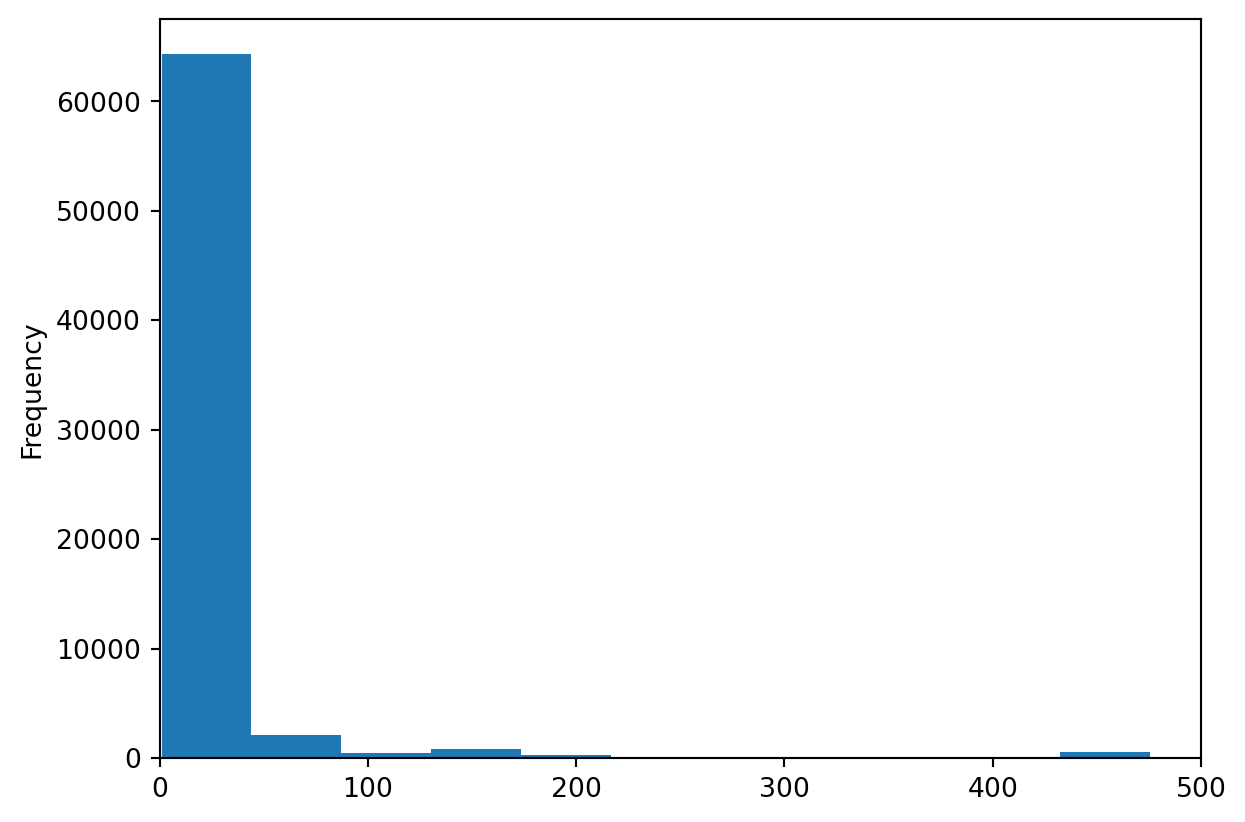
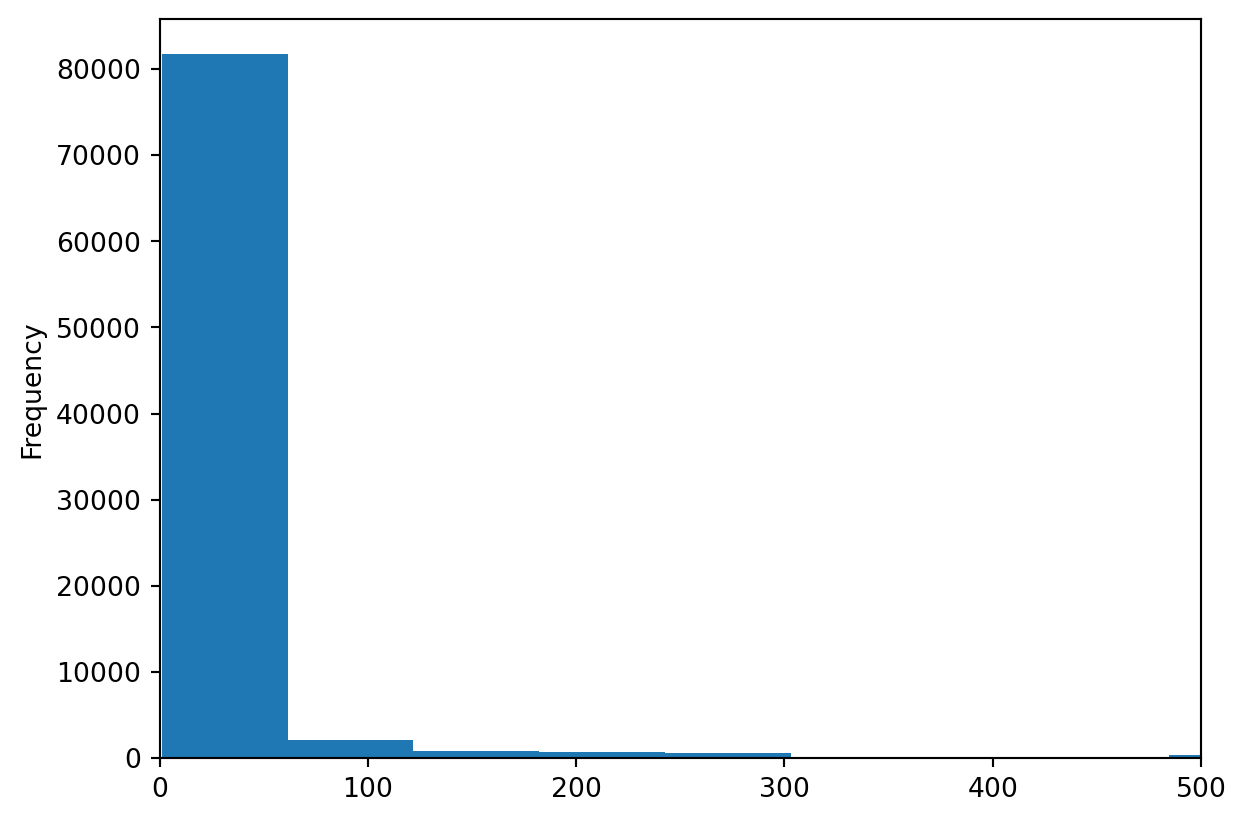
update

diff --git a/Group_Work_DeskB.html b/Group_Work_DeskB.html
@@ -102,9 +102,9 @@ div.csl-indent {
   <li><a href="#priorities-for-feedback" id="toc-priorities-for-feedback" class="nav-link" data-scroll-target="#priorities-for-feedback">Priorities for Feedback</a></li>
   <li><a href="#response-to-questions" id="toc-response-to-questions" class="nav-link" data-scroll-target="#response-to-questions">Response to Questions</a>
   <ul class="collapse">
-  <li><a href="#who-collected-the-data" id="toc-who-collected-the-data" class="nav-link" data-scroll-target="#who-collected-the-data">1. Who collected the data?</a></li>
-  <li><a href="#why-did-they-collect-it" id="toc-why-did-they-collect-it" class="nav-link" data-scroll-target="#why-did-they-collect-it">2. Why did they collect it?</a></li>
-  <li><a href="#how-was-the-data-collected" id="toc-how-was-the-data-collected" class="nav-link" data-scroll-target="#how-was-the-data-collected">3. How was the data collected?</a></li>
+  <li><a href="#who-collected-the-data-2-points-answer-due-week-7" id="toc-who-collected-the-data-2-points-answer-due-week-7" class="nav-link" data-scroll-target="#who-collected-the-data-2-points-answer-due-week-7">1. Who collected the data? ( 2 points; Answer due Week 7 )</a></li>
+  <li><a href="#why-did-they-collect-it-4-points-answer-due-week-7" id="toc-why-did-they-collect-it-4-points-answer-due-week-7" class="nav-link" data-scroll-target="#why-did-they-collect-it-4-points-answer-due-week-7">2. Why did they collect it? ( 4 points; Answer due Week 7 )</a></li>
+  <li><a href="#how-was-the-data-collected-5-points-answer-due-week-8" id="toc-how-was-the-data-collected-5-points-answer-due-week-8" class="nav-link" data-scroll-target="#how-was-the-data-collected-5-points-answer-due-week-8">3. How was the data collected? ( 5 points; Answer due Week 8 )</a></li>
   <li><a href="#how-does-the-method-of-collection-impact-the-completeness-andor-accuracy-of-its-representation-of-the-process-it-seeks-to-study-and-what-wider-issues-does-this-raise" id="toc-how-does-the-method-of-collection-impact-the-completeness-andor-accuracy-of-its-representation-of-the-process-it-seeks-to-study-and-what-wider-issues-does-this-raise" class="nav-link" data-scroll-target="#how-does-the-method-of-collection-impact-the-completeness-andor-accuracy-of-its-representation-of-the-process-it-seeks-to-study-and-what-wider-issues-does-this-raise">4. How does the method of collection impact the completeness and/or accuracy of its representation of the process it seeks to study, and what wider issues does this raise?</a></li>
   <li><a href="#what-ethical-considerations-does-the-use-of-this-data-raise" id="toc-what-ethical-considerations-does-the-use-of-this-data-raise" class="nav-link" data-scroll-target="#what-ethical-considerations-does-the-use-of-this-data-raise">5. What ethical considerations does the use of this data raise?</a></li>
   <li><a href="#with-reference-to-the-data-i.e.-using-numbers-figures-maps-and-descriptive-statistics-what-does-an-analysis-of-hosts-and-listing-types-suggest-about-the-nature-of-airbnb-lets-in-london" id="toc-with-reference-to-the-data-i.e.-using-numbers-figures-maps-and-descriptive-statistics-what-does-an-analysis-of-hosts-and-listing-types-suggest-about-the-nature-of-airbnb-lets-in-london" class="nav-link" data-scroll-target="#with-reference-to-the-data-i.e.-using-numbers-figures-maps-and-descriptive-statistics-what-does-an-analysis-of-hosts-and-listing-types-suggest-about-the-nature-of-airbnb-lets-in-london">6. With reference to the data (<em>i.e.</em> using numbers, figures, maps, and descriptive statistics), what does an analysis of Hosts and Listing types suggest about the nature of Airbnb lets in London?</a></li>
@@ -182,26 +182,22 @@ div.csl-indent {
 </section>
 <section id="response-to-questions" class="level1">
 <h1>Response to Questions</h1>
-<section id="who-collected-the-data" class="level2">
-<h2 class="anchored" data-anchor-id="who-collected-the-data">1. Who collected the data?</h2>
-<div class="duedate">
-<p>1.<a href="http://data.insideairbnb.com/united-kingdom/england/london/2023-09-06/data/listings.csv.gz">*listings.csv</a> : This dataset was created by automatically scraping public information from Airbnb’s Website. Murray Cox was one of the main founder and technicians of this mission driven project that aims to provide data and advocacy about Airbnb’s impact on residential communities. <a href="(http://insideairbnb.com/about)">[1]</a></p>
+<section id="who-collected-the-data-2-points-answer-due-week-7" class="level2">
+<h2 class="anchored" data-anchor-id="who-collected-the-data-2-points-answer-due-week-7">1. Who collected the data? ( 2 points; Answer due Week 7 )</h2>
+<p>::: 1.<a href="http://data.insideairbnb.com/united-kingdom/england/london/2023-09-06/data/listings.csv.gz">*listings.csv</a> : This dataset was created by automatically scraping public information from Airbnb’s Website. Murray Cox was one of the main founder and technicians of this mission driven project that aims to provide data and advocacy about Airbnb’s impact on residential communities. <a href="(http://insideairbnb.com/about)">[1]</a></p>
 <p>2.<a href="https://data.london.gov.uk/download/london_boroughs/9502cdec-5df0-46e3-8aa1-2b5c5233a31f/London_Boroughs.gpkg">*London_Boroughs.gpkg</a> and <a href="https://data.london.gov.uk/download/statistical-gis-boundary-files-london/08d31995-dd27-423c-a987-57fe8e952990/London-wards-2018.zip">London-wards-2018</a> : This dataset is an extract from <a href="https://www.ordnancesurvey.co.uk/">Ordnance Survey</a> Boundary-Line product which is a specialist 1:10 000 scale boundaries dataset.</p>
-<p>( 2 points; Answer due Week 7 )</p>
-</div>
+<p>:::</p>
 <p>An inline citation: As discussed on <span class="citation" data-cites="insideairbnb"><span>“Inside airbnb”</span> (<a href="#ref-insideairbnb" role="doc-biblioref">n.d.</a>)</span>, there are many…</p>
 <p>A parenthetical citation: There are many ways to research Airbnb <span class="citation" data-cites="insideairbnb">(see, for example, <a href="#ref-insideairbnb" role="doc-biblioref"><span>“Inside airbnb,”</span> n.d.</a>)</span>…</p>
 </section>
-<section id="why-did-they-collect-it" class="level2">
-<h2 class="anchored" data-anchor-id="why-did-they-collect-it">2. Why did they collect it?</h2>
-<div class="duedate">
-<p>( 4 points; Answer due Week 7 )</p>
+<section id="why-did-they-collect-it-4-points-answer-due-week-7" class="level2">
+<h2 class="anchored" data-anchor-id="why-did-they-collect-it-4-points-answer-due-week-7">2. Why did they collect it? ( 4 points; Answer due Week 7 )</h2>
+<p>:::</p>
 <p>1.<a href="http://data.insideairbnb.com/united-kingdom/england/london/2023-09-06/data/listings.csv.gz">*listings.csv</a> : Inside Airbnb is a mission driven project that provides data and advocacy about Airbnb’s impact on residential communities. We work towards a vision where communities are empowered with data and information to understand, decide and control the role of renting residential homes to tourists.</p>
-<p>2.<a href="https://data.london.gov.uk/download/london_boroughs/9502cdec-5df0-46e3-8aa1-2b5c5233a31f/London_Boroughs.gpkg">*London_Boroughs.gpkg</a> : With a long history and evolving from . The Ordnance Survey aims to help governments make smarter decisions that ensure our safety and security, they also show businesses how to gain a location data edge and we help everyone experience the benefits of the world outside.</p>
-</div>
+<p>2.<a href="https://data.london.gov.uk/download/london_boroughs/9502cdec-5df0-46e3-8aa1-2b5c5233a31f/London_Boroughs.gpkg">*London_Boroughs.gpkg</a> : With a long history and evolving from . The Ordnance Survey aims to help governments make smarter decisions that ensure our safety and security, they also show businesses how to gain a location data edge and we help everyone experience the benefits of the world outside. Under the <a href="https://www.ordnancesurvey.co.uk/customers/public-sector/public-sector-geospatial-agreement">Public Sector Geospatial Agreement</a> (PSGA), Ordnance Survey (OS) provides Great Britain’ national mapping services. OS creates, maintains and provides access to consistent, definitive and authoritative location data of Great Britain, aiming to help organisations to maximise the use, value and benefit of the data for the national interest and the public good. :::</p>
 <div class="cell" data-execution_count="3">
 <div class="cell-output cell-output-stdout">
-<pre><code>Data frame is 69,351 x 75</code></pre>
+<pre><code>Data frame is 87,946 x 75</code></pre>
 </div>
 </div>
 <div class="cell" data-execution_count="4">
@@ -210,17 +206,45 @@ div.csl-indent {
 </div>
 </div>
 </section>
-<section id="how-was-the-data-collected" class="level2">
-<h2 class="anchored" data-anchor-id="how-was-the-data-collected">3. How was the data collected?</h2>
-<div class="duedate">
-<p>1.<a href="http://data.insideairbnb.com/united-kingdom/england/london/2023-09-06/data/listings.csv.gz">*listings.csv</a> : Inside Airbnb collects its data primarily by scraping information from the Airbnb website. This process involves the following steps:</p>
-<p>i<em>.Web Scraping</em>: Inside Airbnb uses automated scripts to systematically browse and extract data from Airbnb’s listings. These scripts navigate the website just like a human user would, but they do it much faster and on a larger scale.</p>
-<p><em>ii.Data Extraction</em>: Information about each listing, such as location, price, availability, number of bedrooms, reviews, and host details, is extracted and compiled.</p>
-<p><em>iii.Data Aggregation</em>: The collected data is then aggregated into a database. This database is organized to make it easier to analyze trends, patterns, and insights related to Airbnb’s offerings in various cities and regions.</p>
-<p><em>iv.Regular Updates</em>: The scraping process is repeated periodically to keep the database current, capturing new listings and updates to existing ones.</p>
-<p><em>v.Public Accessibility</em>: The aggregated data is often made available to the public through the Inside Airbnb website, enabling researchers, policymakers, and the general public to analyze Airbnb’s impact on housing markets and communities. It’s important to note that web scraping practices, like those used by Inside Airbnb, may face legal and ethical considerations depending on the website’s terms of service and regional laws regarding data privacy and usage.</p>
-<p>2.<a href="https://data.london.gov.uk/download/london_boroughs/9502cdec-5df0-46e3-8aa1-2b5c5233a31f/London_Boroughs.gpkg">*London_Boroughs.gpkg</a> : .</p>
-<p>( 5 points; Answer due Week 8 )</p>
+<section id="how-was-the-data-collected-5-points-answer-due-week-8" class="level2">
+<h2 class="anchored" data-anchor-id="how-was-the-data-collected-5-points-answer-due-week-8">3. How was the data collected? ( 5 points; Answer due Week 8 )</h2>
+<p>::: 1.<a href="http://data.insideairbnb.com/united-kingdom/england/london/2023-09-06/data/listings.csv.gz">*listings.csv</a> : Inside Airbnb collects its data primarily by scraping information from the Airbnb website. This process involves the following steps:</p>
+<p><strong>i.Web Scraping</strong>: Inside Airbnb uses automated scripts to systematically browse and extract data from Airbnb’s listings. These scripts navigate the website just like a human user would, but they do it much faster and on a larger scale.</p>
+<p><strong>ii.Data Extraction</strong>: Information about each listing, such as location, price, availability, number of bedrooms, reviews, and host details, is extracted and compiled.</p>
+<p><strong>iii.Data Aggregation</strong>: The collected data is then aggregated into a database. This database is organized to make it easier to analyze trends, patterns, and insights related to Airbnb’s offerings in various cities and regions.</p>
+<p><strong>iv.Regular Updates</strong>: The scraping process is repeated periodically to keep the database current, capturing new listings and updates to existing ones.</p>
+<p><strong>v.Public Accessibility</strong>: The aggregated data is often made available to the public through the Inside Airbnb website, enabling researchers, policymakers, and the general public to analyze Airbnb’s impact on housing markets and communities. It’s important to note that web scraping practices, like those used by Inside Airbnb, may face legal and ethical considerations depending on the website’s terms of service and regional laws regarding data privacy and usage.</p>
+<p>2.<a href="https://data.london.gov.uk/download/london_boroughs/9502cdec-5df0-46e3-8aa1-2b5c5233a31f/London_Boroughs.gpkg">*London_Boroughs.gpkg</a> : “Boundary-Line for England and Wales was initially digitised from Ordnance Survey’s boundary record sheets at 1:10 000 scale (or, in some cases, at larger scales). The Government Statistical Service (GSS) codes are supplied by the Office for National Statistics and General Register Office for Scotland(GROS). GIS software provides the functionality to store, manage and manipulate this digital map data. The properties of the data make it suitable as a key base for users wishing to develop applications. BoundaryLine is also suitable for use within other digital mapping systems. It’s coordinated on the National Grid which allows for the easy superimposition of other data. :::</p>
+<div class="cell" data-execution_count="5">
+<div class="cell-output cell-output-stdout">
+<pre><code>Index(['id', 'listing_url', 'scrape_id', 'last_scraped', 'source', 'name',
+       'description', 'neighborhood_overview', 'picture_url', 'host_id',
+       'host_url', 'host_name', 'host_since', 'host_location', 'host_about',
+       'host_response_time', 'host_response_rate', 'host_acceptance_rate',
+       'host_is_superhost', 'host_thumbnail_url', 'host_picture_url',
+       'host_neighbourhood', 'host_listings_count',
+       'host_total_listings_count', 'host_verifications',
+       'host_has_profile_pic', 'host_identity_verified', 'neighbourhood',
+       'neighbourhood_cleansed', 'neighbourhood_group_cleansed', 'latitude',
+       'longitude', 'property_type', 'room_type', 'accommodates', 'bathrooms',
+       'bathrooms_text', 'bedrooms', 'beds', 'amenities', 'price',
+       'minimum_nights', 'maximum_nights', 'minimum_minimum_nights',
+       'maximum_minimum_nights', 'minimum_maximum_nights',
+       'maximum_maximum_nights', 'minimum_nights_avg_ntm',
+       'maximum_nights_avg_ntm', 'calendar_updated', 'has_availability',
+       'availability_30', 'availability_60', 'availability_90',
+       'availability_365', 'calendar_last_scraped', 'number_of_reviews',
+       'number_of_reviews_ltm', 'number_of_reviews_l30d', 'first_review',
+       'last_review', 'review_scores_rating', 'review_scores_accuracy',
+       'review_scores_cleanliness', 'review_scores_checkin',
+       'review_scores_communication', 'review_scores_location',
+       'review_scores_value', 'license', 'instant_bookable',
+       'calculated_host_listings_count',
+       'calculated_host_listings_count_entire_homes',
+       'calculated_host_listings_count_private_rooms',
+       'calculated_host_listings_count_shared_rooms', 'reviews_per_month'],
+      dtype='object')</code></pre>
+</div>
 </div>
 </section>
 <section id="how-does-the-method-of-collection-impact-the-completeness-andor-accuracy-of-its-representation-of-the-process-it-seeks-to-study-and-what-wider-issues-does-this-raise" class="level2">
@@ -238,7 +262,10 @@ div.csl-indent {
 <section id="with-reference-to-the-data-i.e.-using-numbers-figures-maps-and-descriptive-statistics-what-does-an-analysis-of-hosts-and-listing-types-suggest-about-the-nature-of-airbnb-lets-in-london" class="level2">
 <h2 class="anchored" data-anchor-id="with-reference-to-the-data-i.e.-using-numbers-figures-maps-and-descriptive-statistics-what-does-an-analysis-of-hosts-and-listing-types-suggest-about-the-nature-of-airbnb-lets-in-london">6. With reference to the data (<em>i.e.</em> using numbers, figures, maps, and descriptive statistics), what does an analysis of Hosts and Listing types suggest about the nature of Airbnb lets in London?</h2>
 <div class="duedate">
-<div class="sourceCode" id="cb2"><pre class="sourceCode python code-with-copy"><code class="sourceCode python"><span id="cb2-1"><a href="#cb2-1" aria-hidden="true" tabindex="-1"></a><span class="kw">def</span></span></code><button title="Copy to Clipboard" class="code-copy-button"><i class="bi"></i></button></pre></div>
+<div class="sourceCode" id="cb3"><pre class="sourceCode python code-with-copy"><code class="sourceCode python"><span id="cb3-1"><a href="#cb3-1" aria-hidden="true" tabindex="-1"></a><span class="kw">def</span></span>
+<span id="cb3-2"><a href="#cb3-2" aria-hidden="true" tabindex="-1"></a></span>
+<span id="cb3-3"><a href="#cb3-3" aria-hidden="true" tabindex="-1"></a><span class="co">#定义url，将名称作为key，将url链接作为value。</span></span>
+<span id="cb3-4"><a href="#cb3-4" aria-hidden="true" tabindex="-1"></a>urlmap <span class="op">=</span> {}</span></code><button title="Copy to Clipboard" class="code-copy-button"><i class="bi"></i></button></pre></div>
 <p>( 15 points; Answer due <strong>?var:assess.group-date</strong> )</p>
 </div>
 </section>
